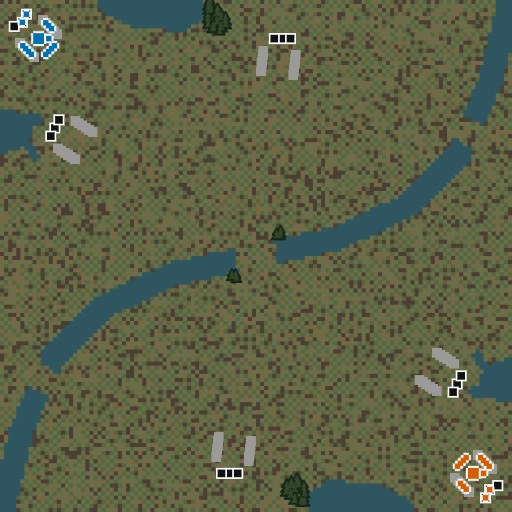
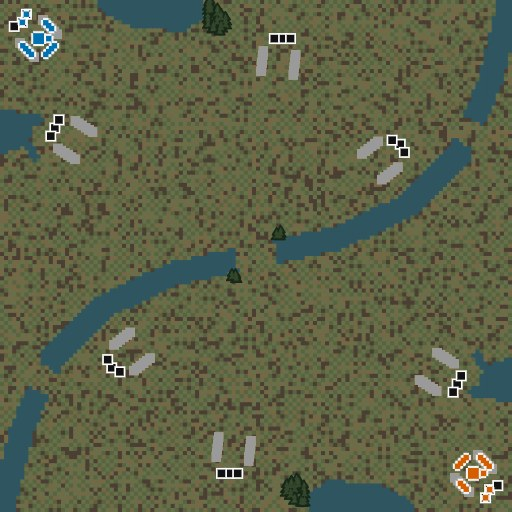
Add final river expansions
Add mirrored standard-resource bases about ten tiles from the river, diagonally northwest and southeast of the edge expansion pair.

Changed region(s): [[0.6875, 0.25, 0.8125, 0.375], [0.1875, 0.625, 0.3125, 0.75]]

diff --git a/server/crates/sim/src/game/map/tests/the_river.rs b/server/crates/sim/src/game/map/tests/the_river.rs
@@ -30,6 +30,8 @@ fn the_river_is_selectable_and_loads_for_a_two_player_match() {
             (107, 91),
             (57, 110),
             (68, 15),
+            (32, 86),
+            (93, 39),
         ]
     );
     assert_eq!(map.doodads.len(), 38);
